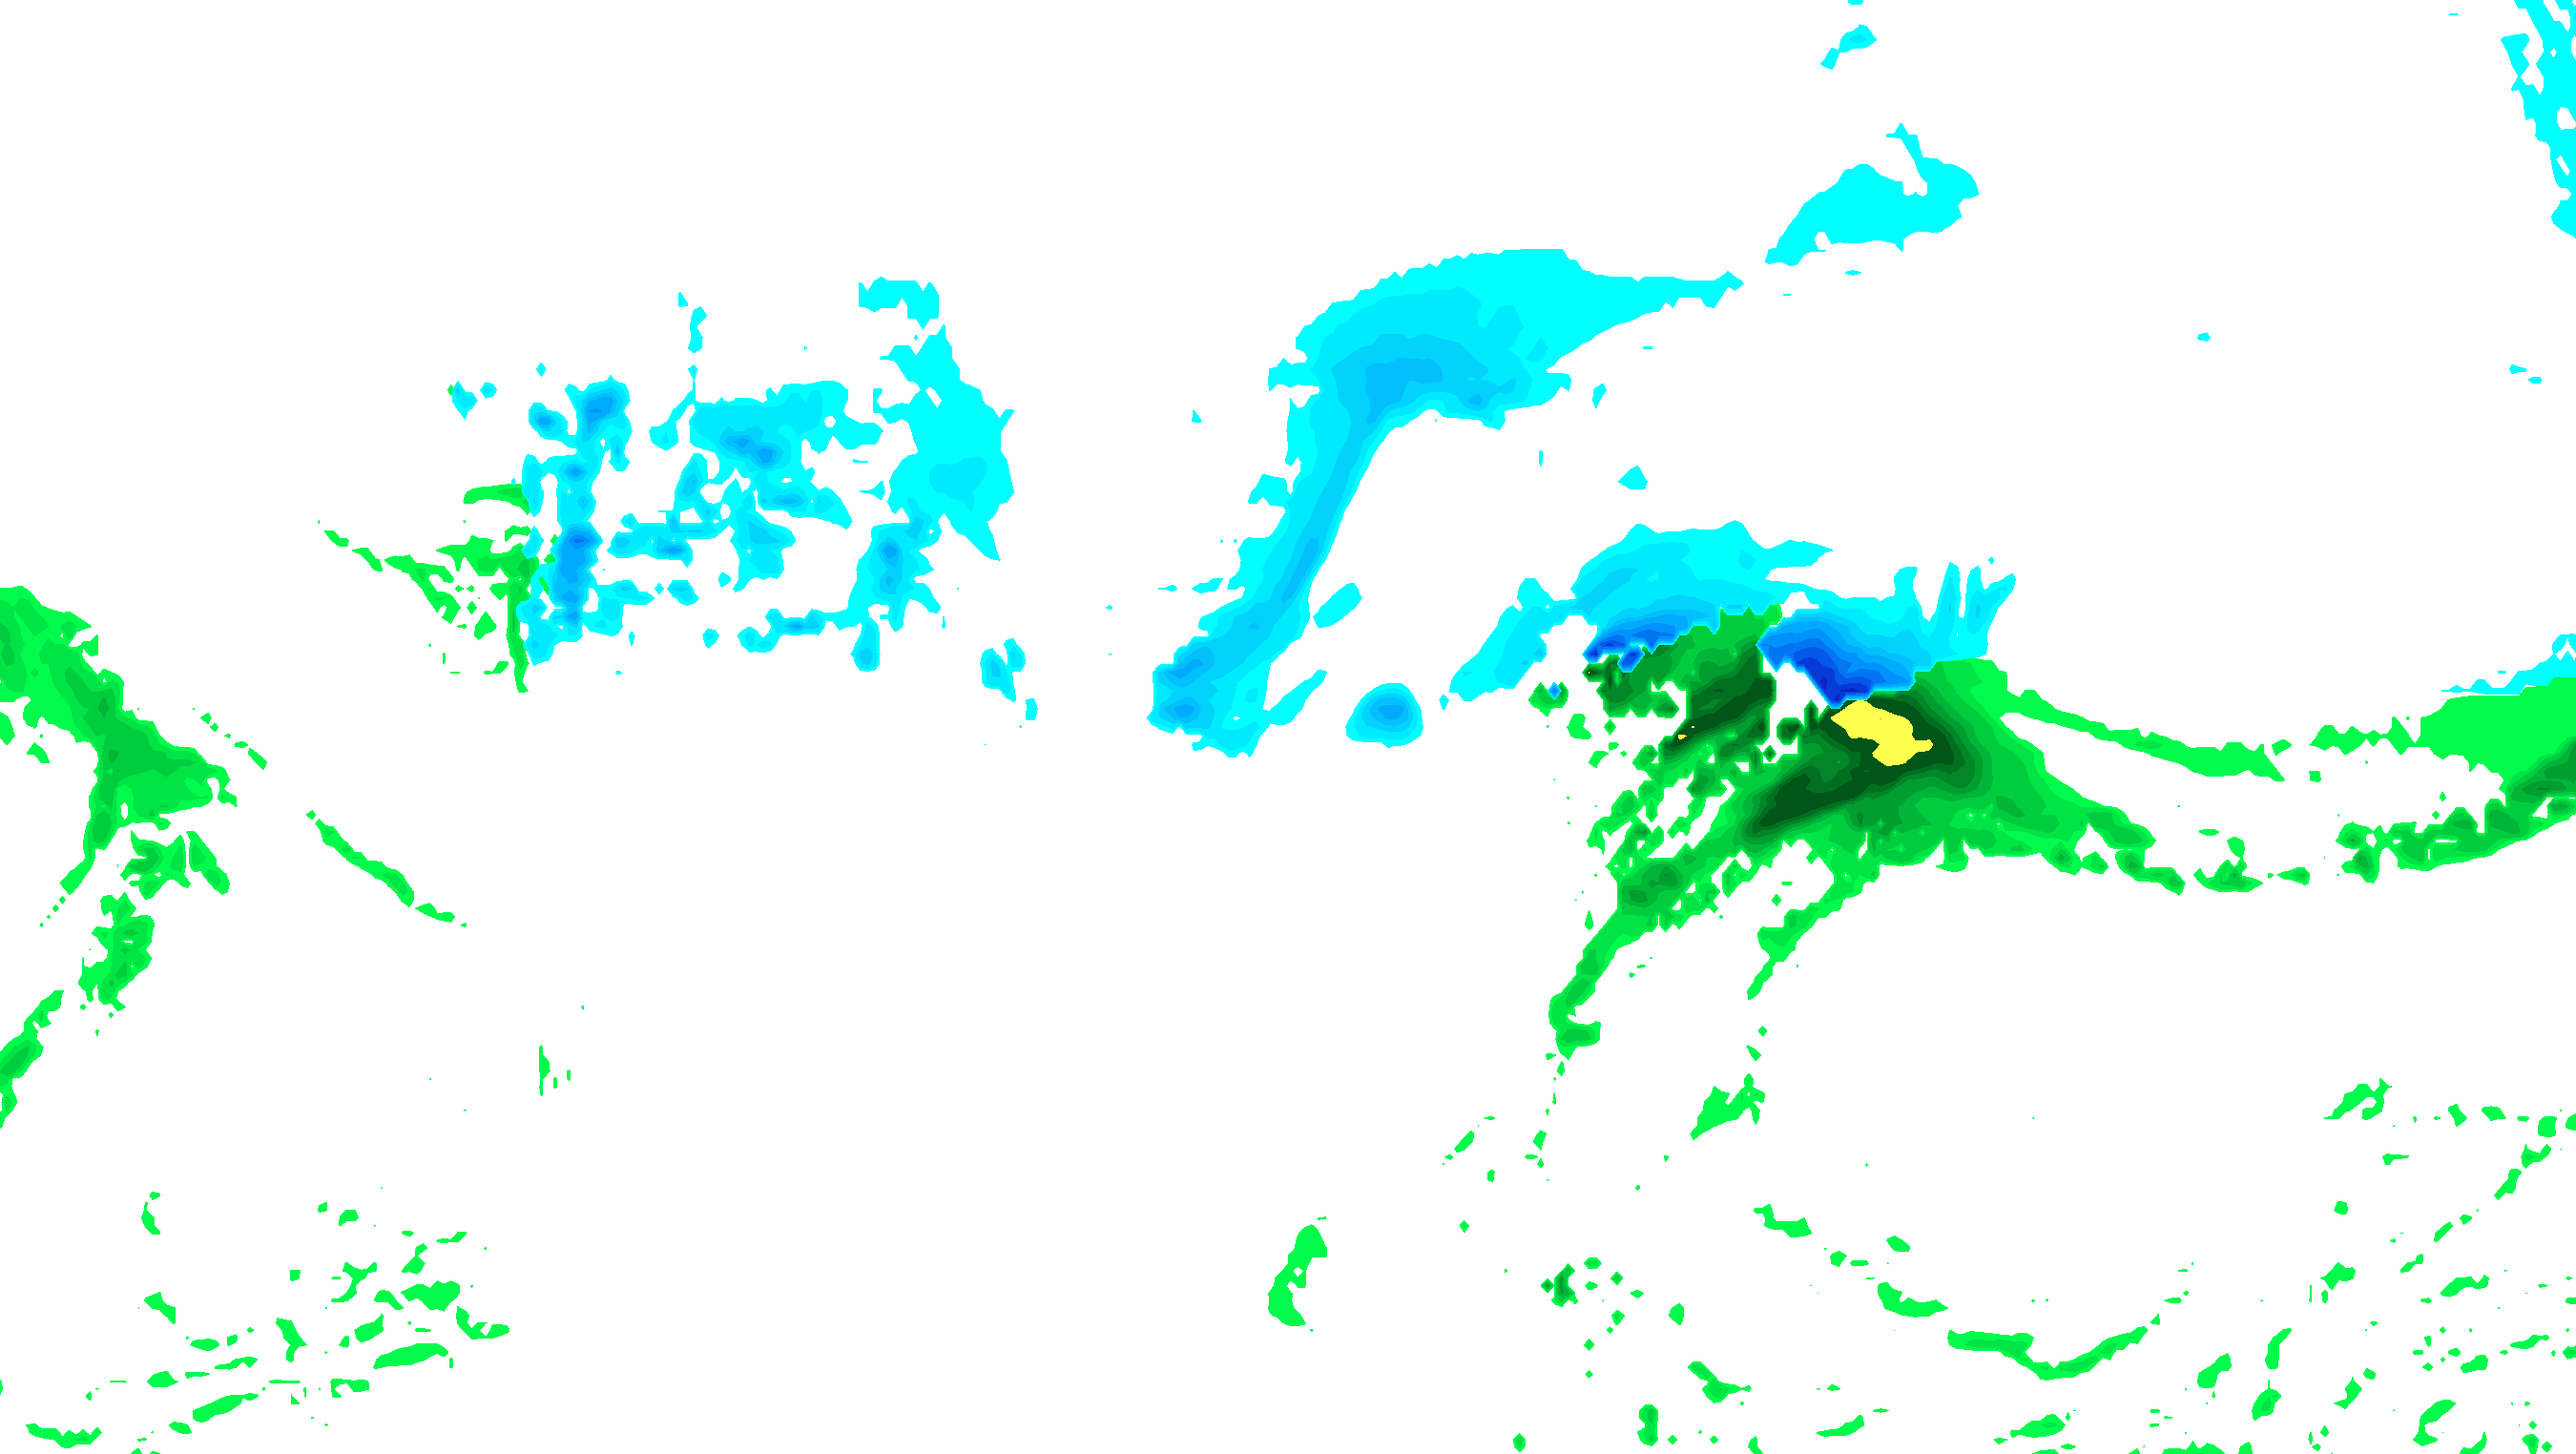
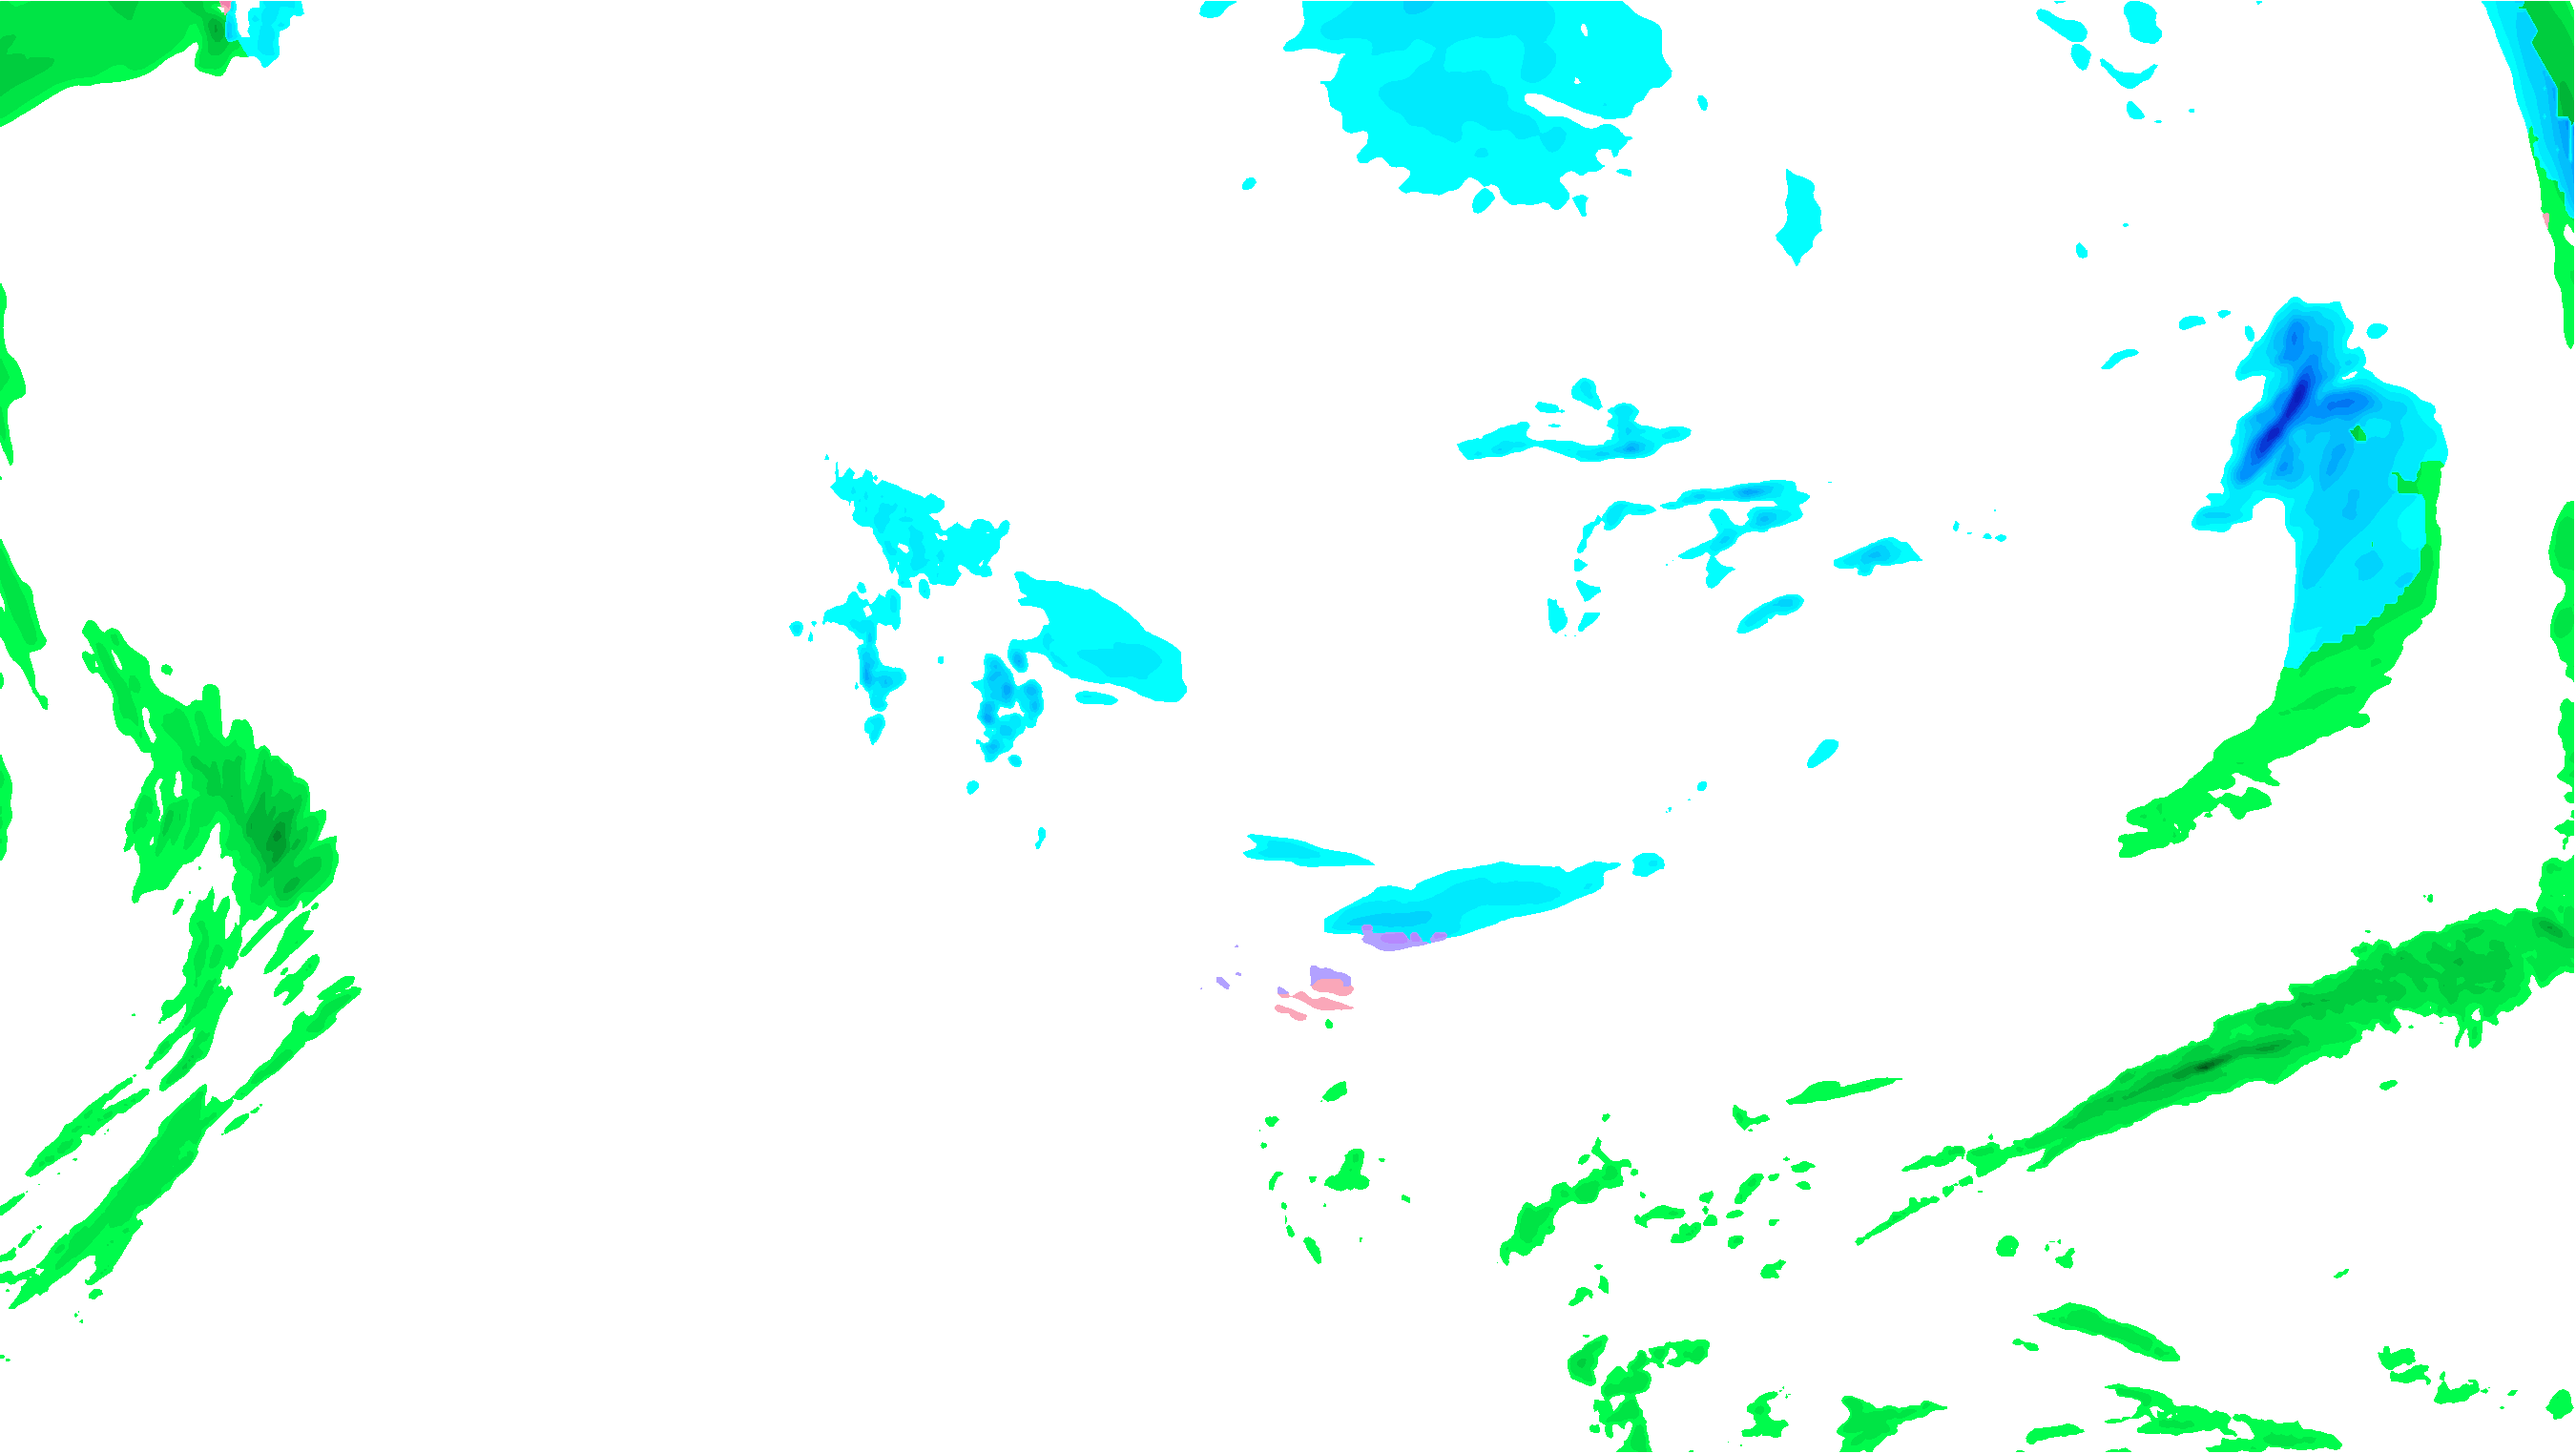
January 14, 2024 Update
Push new maps, updated GFS resolution, only ptype for now.

diff --git a/main.js b/main.js
@@ -2,7 +2,7 @@ const map = new maplibregl.Map({
   container: 'map',
   style: './monarch_style.json',
   zoom: 3.5,
-  center: [-96.601,37.852],
+  center: [-95.901,37.852],
   maxBounds: [[-143.0,16.5],[-50.2,56.8]],
   pitchWithRotate: false,
   dragRotate: false,
@@ -22,8 +22,8 @@ map.addControl(new mapboxgl.GeolocateControl({
 const dateTimes = [];
 
 // Set the start and end date
-const startDate = new Date('2023-12-31T18:00:00');
-const endDate = new Date('2024-01-20T23:00:00');
+const startDate = new Date('2024-01-14T18:00:00');
+const endDate = new Date('2024-01-30T23:00:00');
 
 // Loop through the hours between start and end dates
 let currentDate = startDate;
@@ -38,7 +38,7 @@ while (currentDate <= endDate) {
   dateTimes.push(`${year}${month}${day}${hour}`);
 
   // Increment the current date by 1 hour
-  currentDate = new Date(currentDate.getTime() + (60 * 60 * 3000));
+  currentDate = new Date(currentDate.getTime() + (60 * 60 * 6000));
 }
 
 // Initialize an empty array to store the formatted date-time strings in Eastern Time
@@ -79,14 +79,14 @@ let temp_legend = './temp-legend.png'
 
 let variable_dict = {
   'Snow': ['Accumulated Snowfall (in)','./snow-legend.png'],
-  'P-Type': ['Precipitation Type & Rate','./precip-type-legend.png'],
+  'ptype': ['Precipitation Type & Rate','./precip-type-legend.png'],
   'Wind': ['Wind Speed (kt)','wind-legend.png'],
   'Temp': ['Temperature (°F)','temp-legend.png'],
   'Wind-Chill': ['Wind Chill (°F)','temp-legend.png'],
   'Precip': ['Accumulated Precipitation','./precip-legend.png']
 }
 
-let variable = 'P-Type'
+let variable = 'ptype'
 map.on('load', function() {
   // Add a GeoJSON source to the map
   map.addSource('coastlines', {
@@ -120,7 +120,7 @@ map.on('load', function() {
   // Initialize the image source
   map.addSource('image-source', {
     'type': 'image',
-    'url': `./Exports/GFS/P-Type/${dateTimes[0]}.png`, // Initial date
+    'url': `./Exports/GFS/ptype/${dateTimes[0]}.png`, // Initial date
     'coordinates': [
         [-143.0, 56.8],
         [-50.2, 56.8],
@@ -165,7 +165,7 @@ map.on('load', function() {
   });
 
   precipType.addEventListener('click', function() {
-    variable = 'P-Type'
+    variable = 'ptype'
     let selectedFrame = document.getElementById('dateSlider').value
     map.getSource('image-source').updateImage({ url: `./Exports/GFS/${variable}/${dateTimes[selectedFrame]}.png` });
     currentDate.textContent = formattedDateTimesET[selectedFrame];
@@ -231,7 +231,7 @@ function captureHighResolutionImage(map, callback) {
   } else if (variable == 'Precip') {
     whitespaceSizeBottom = 100
   } else {
-    whitespaceSizeBottom = 90
+    whitespaceSizeBottom = 140
   }/*else if (document.getElementById('legend').src != './temp-legend.png') {
     whitespaceSizeBottom = 90
   }*/

diff --git a/index.html b/index.html
@@ -18,10 +18,10 @@
             <div id="map" class="webmap-new"></div>
           </div>
           <div class="map-info-embed">
-            <p id="currentDate" class="slider-header">Dec 31, 2023, 01 PM EST</p>
+            <p id="currentDate" class="slider-header">Jan 14, 2024, 01 PM EST</p>
           </div>
           <div class="sliderOverlay">
-            <input type="range" id="dateSlider" class="slider" min="0" max="123" value="0" step="1">
+            <input type="range" id="dateSlider" class="slider" min="0" max="39"" value="0" step="1">
           </div>
         </div>
         <img src="./precip-type-legend.png" id="legend" style="width:90%;margin-left:auto;margin-right:auto;display:block;">
@@ -34,14 +34,14 @@
               <input type="checkbox" id="preciptype" name="weather" value="preciptype" checked>
               <label for="preciptype">Precipitation Type & Rate (in/hr)</label>
             </li>
-            <li>
+            <!--<li>
               <input type="checkbox" id="snowfall" name="weather" value="snowfall">
               <label for="snowfall">Accumulated Snowfall (inches, 10:1)</label>
             </li>
             <li>
               <input type="checkbox" id="precip" name="weather" value="precip">
               <label for="precip">Accumulated Precipitation (inches)</label>
-            </li>
+            </li>-->
           </ul>
         </div>
         <div class="toggleSlider">

diff --git a/UCAR-GFS-P-Type.py b/UCAR-GFS-P-Type.py
@@ -1,0 +1,15 @@
+import pygrib
+import xarray as xr
+import urllib.request
+import matplotlib.pyplot as plt
+from io import BytesIO
+from eccodes import *
+
+# ds = xr.open_dataset('./Data/GFS/MostRecent/gfs.t06z.atmf000.nc')
+                     
+# print(ds.ugrd)
+
+ds = pygrib.open('./Data/GFS/MostRecent/gfs.t06z.sfluxgrbf013.grib2')
+
+for var in ds:
+    print(var)
